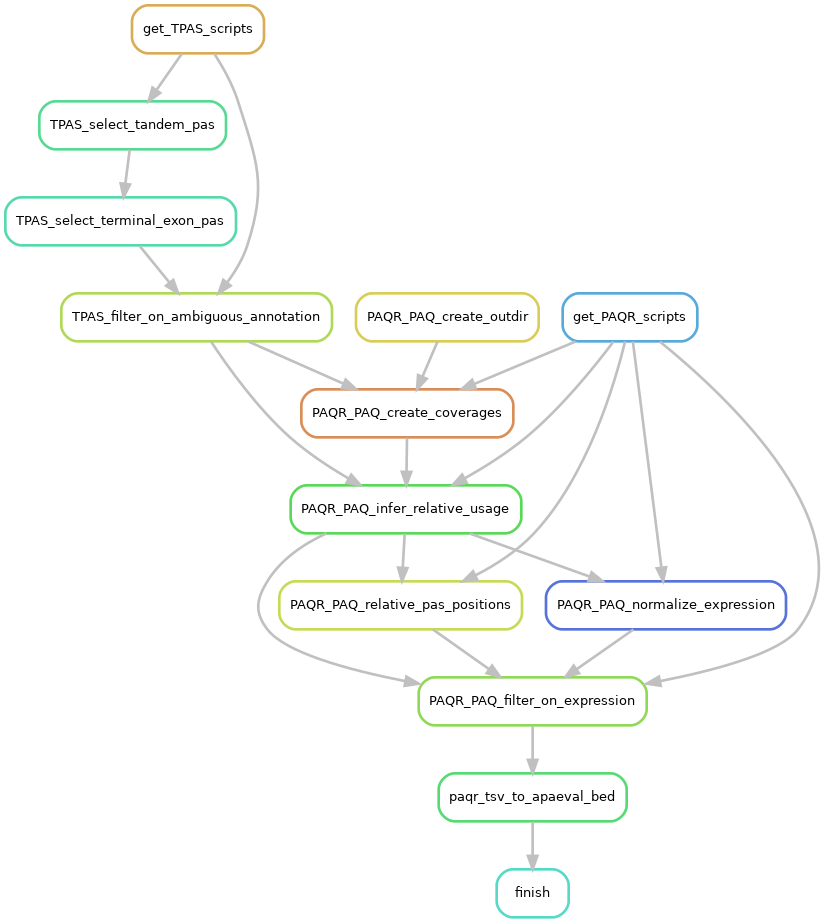
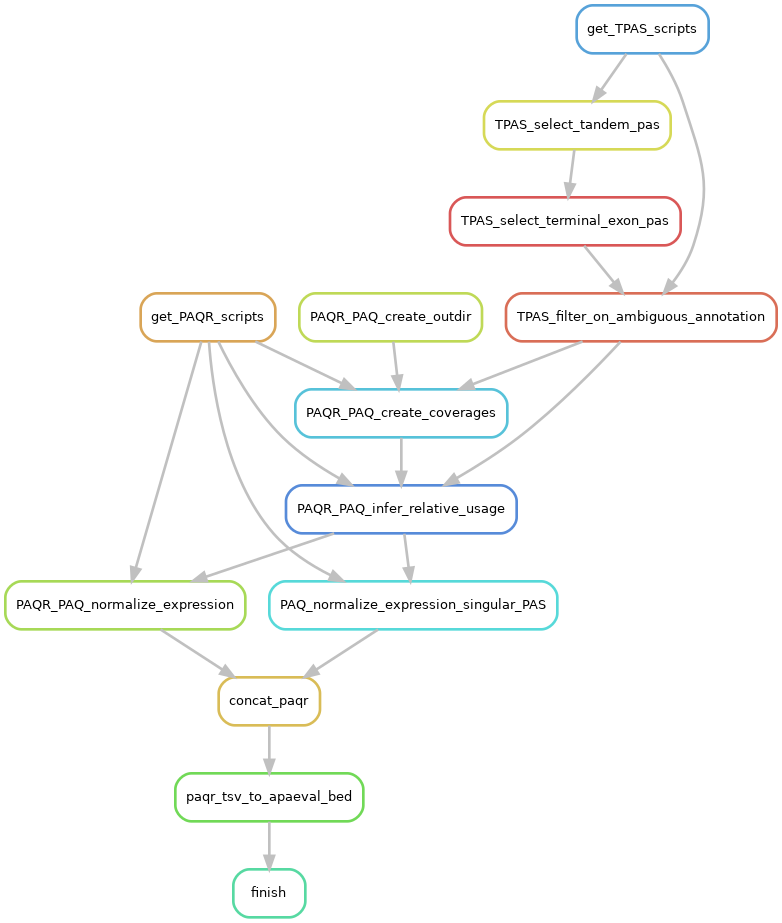
doc: update README and rulegraph

diff --git a/execution_workflows/PAQR/README.md b/execution_workflows/PAQR/README.md
@@ -29,7 +29,7 @@ python ../../utils/csv2tsv/csv2tsv.py --csv config/samples.csv --tsv config/samp
 See [here][sample-table] for an example input `samples.tsv` file. PAQR can be run on one or more samples, and one or more conditions. Conditions are only considered internally (for threshold calculations), the output is given for individual samples. By default paired-end sequencing with read1 - reverse orientation, read2 - forward orientation is assumed. Single-stranded data with the reads in sense direction are processed properly too, but PAQR does not support single-end data in reverse orientation.
 
 ### 3. reference poly(A) site file   
-This reference file has to be provided in `.bed` format with one poly(A) site per row. The site ID (column 4) has to be of the form `chr:site:strand` (e.g. "1:123456:+"), where "chr" is the chromosome, "site" is the representative site of the poly(A) site cluster, or the start coordinate in case of individual poly(A) sites, and "strand" is the strand on which the site is located. This format is based on [PolyASite][polyasite-web].    
+This reference file has to be provided in `.bed` format with one poly(A) site per row. The site ID (column 4) has to be of the form `chr:site:strand` (e.g. "1:123456:+"), where "chr" is the chromosome, "site" is the representative site of the poly(A) site cluster, or the 1-based coordinate in case of individual poly(A) sites, and "strand" is the strand on which the site is located. This format is based on [PolyASite][polyasite-web].    
 Suitable reference poly(A) site files can be downloaded from [PolyASite][polyasite-web] for [human][human-pas], [mouse][mouse-pas] and [*C.elegans*][worm-pas]. The corresponding filename has to be specified in `config/config.PAQR.yaml` (see below).   
 > **Note that PolyASite uses ensembl chromosome naming. For use with Gencode annotations, chromosome names have thus to be adjusted!**
 ```
@@ -64,10 +64,9 @@ All parameters are specified (and explained) in `config/config.PAQR.yaml`. Most 
 
 > NOTE: some parameters have to be specified more than once, with only slightly different names. Unfortunately, this cannot be avoided, as the workflow imports different individual modules, that all require to use the exact parameter names that are present in their respective published repositories. Re-wiring in order to decrease the overhead for the user has been performed as good as possible.
 ### Paths to input files
-- `ref_PAS_file`
-- `samples`
-- `tpas:gtf`
-- `paqr:PAQ_samples_table`
+- `ref_PAS_file`: Path to reference poly(A) site file (format: `.bed` or `.bed.gz`)
+- `tpas:gtf`: Path to genome annotation (format: `.gtf` or `.gtf.gz`)
+- `paqr:PAQ_samples_table`: Path to samples table (format: `.tsv`)
 
 
 ### Data dependent
@@ -76,12 +75,12 @@ All parameters are specified (and explained) in `config/config.PAQR.yaml`. Most 
 - `paqr:PAQ_read_length`: avg read length of the samples
 
 ### Annotation dependent
-- `biotype_key`: "transcript_biotype" if using ensembl annotations, "transcript_type" if using gencode
+- `biotype_key`: "transcript_biotype" if using ensembl annotations (also if "chr" has been prepended), "transcript_type" if using gencode
 
 
 ## Output & post-processing
 
-APAeval relevant output: `filtered_pas_expression.tsv`, which contains tpm for each sample from the samples table. This file is converted into the APAeval compatible bed format in a postprocessing rule.   
+APAeval relevant output: `tandem_pas_expression_normalized.tsv` and `singular_pas_expression.tsv`. The latter is normalized in an additional rule outside the `PAQR module`, and subsequently both files are concatenated. The resulting `.tsv` file contains tpm for each sample from the samples table. This file is converted into the APAeval compatible bed format with single nucleotide PAS in a postprocessing rule.   
 
 The final output files are named `[SAMPLE]_[CHALLENGE_CODE]_[PARTICIPANT]_[OUTCODE].bed`, as specified in the ["execution workflow README"][ewf-readme-filenames].
 
@@ -92,6 +91,7 @@ The modules inside this workflow are loaded from the following repositories:
 - [https://github.com/zavolanlab/tandem-pas](https://github.com/zavolanlab/tandem-pas)
 - [https://github.com/zavolanlab/PAQR2](https://github.com/zavolanlab/PAQR2)
 
+PAQR was developed to be compatible with specific downstream applications comparing distal and proximal PAS, and does thus natively only report expression of "tandem PAS" - PAS on terminal exons with at least two PAS. However, for APAeval also PAS from exons with only one PAS are relevant. Therefore the present workflow reports PAS expression from the PAQR "intermediate" files `singular_pas_expression.tsv` and `tandem_pas_expression_normalized.tsv`, instead of the original PAQR output `filtered_pas_expression.tsv`. 
 
 
 [polyasite-web]: <https://polyasite.unibas.ch/atlas>
